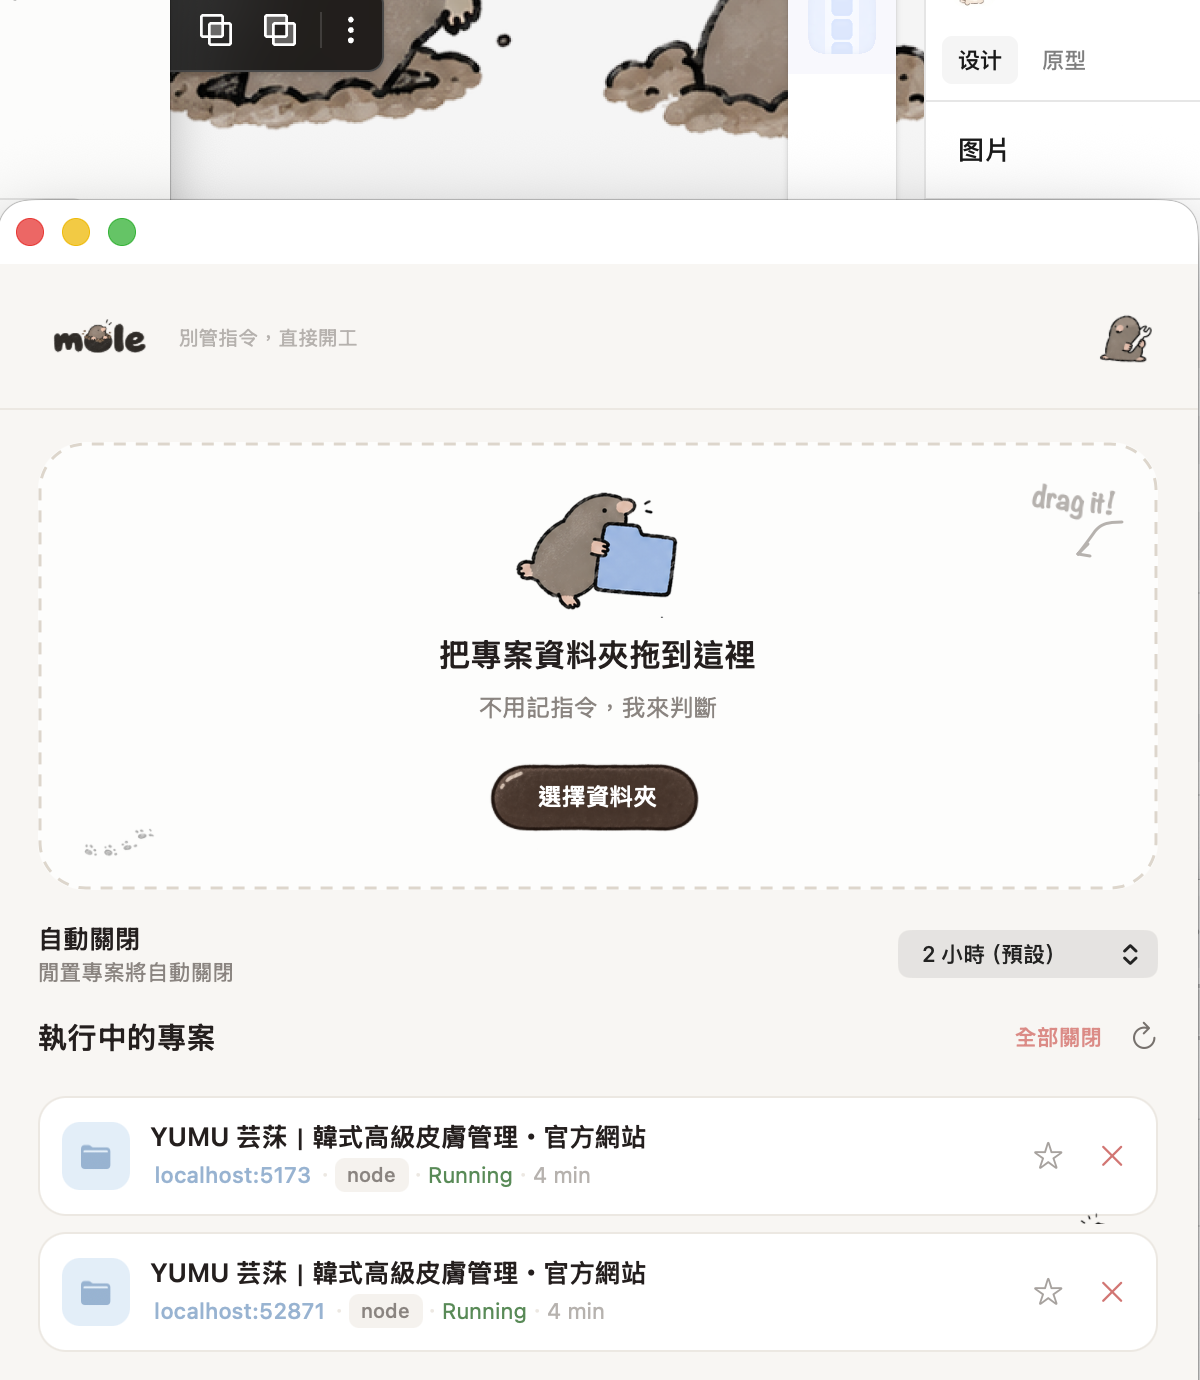
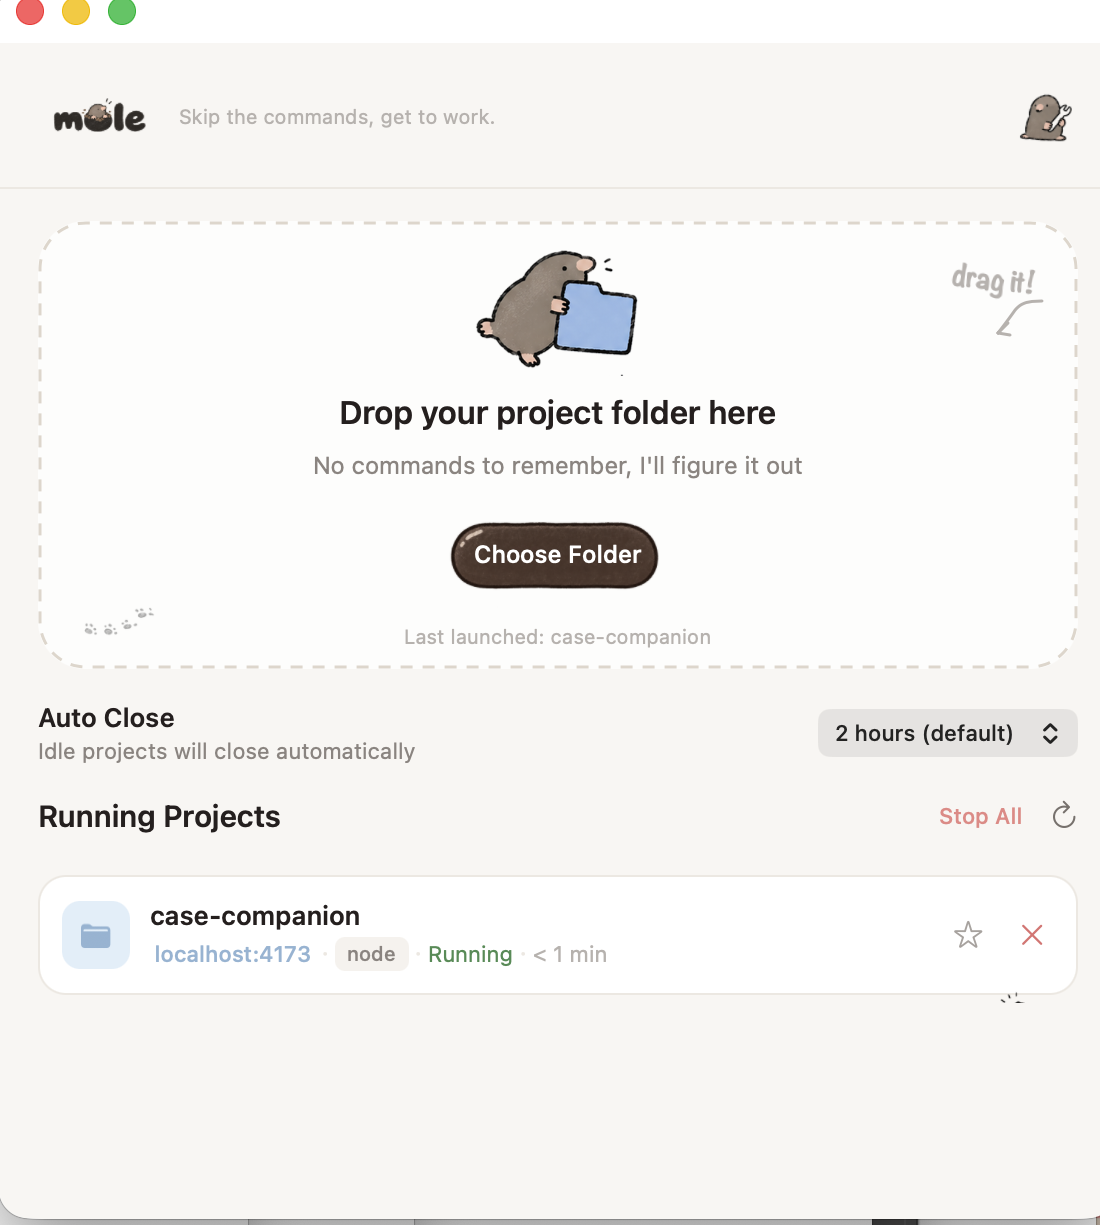
Rename build artifacts from SmartLaunch to mole
build.sh/install.sh/make-dmg.sh still produced SmartLaunch.app with a
SmartLaunch-named binary, which no longer matched Info.plist's
CFBundleExecutable=mole — the app wouldn't launch. Also restores the
wordmark logo at the top of the README and swaps in the new English
screenshot.

diff --git a/README.md b/README.md
@@ -1,3 +1,7 @@
+<p align="center">
+  <img src="icon/mole-poses/wordmark-logo.png" width="160" alt="mole logo">
+</p>
+
 <p align="center">別管指令，直接開工。<br>Skip the commands, get to work.</p>
 
 <p align="center">
@@ -37,7 +41,7 @@
 
 ### 方式一：直接下載
 
-1. 到 [Releases](https://github.com/ST6AR1/mole/releases/latest) 下載最新的 `SmartLaunch-x.x.x.dmg`
+1. 到 [Releases](https://github.com/ST6AR1/mole/releases/latest) 下載最新的 `mole-x.x.x.dmg`
 2. 打開 DMG，把 App 拖到 `Applications`
 3. 因為沒有付費的 Apple 開發者憑證，第一次打開會跳出「無法驗證開發者」的警告——在 Finder 裡**按住 Control 點兩下 App → 選「打開」**，或到「系統設定 → 隱私權與安全性」允許。之後就不會再跳出來了
 
@@ -50,7 +54,7 @@ cd mole
 ./build.sh
 ```
 
-會在專案資料夾裡產生 `SmartLaunch.app`，拖到 `Applications` 就能用。
+會在專案資料夾裡產生 `mole.app`，拖到 `Applications` 就能用。
 
 ## 開發
 
@@ -63,7 +67,7 @@ cd mole
 
 ```bash
 ./make-dmg.sh
-gh release create vX.Y.Z SmartLaunch-X.Y.Z.dmg --title "vX.Y.Z" --notes "這次改了什麼"
+gh release create vX.Y.Z mole-X.Y.Z.dmg --title "vX.Y.Z" --notes "這次改了什麼"
 ```
 
 ## 授權
